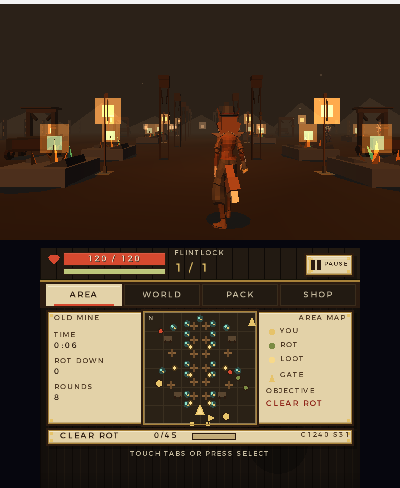
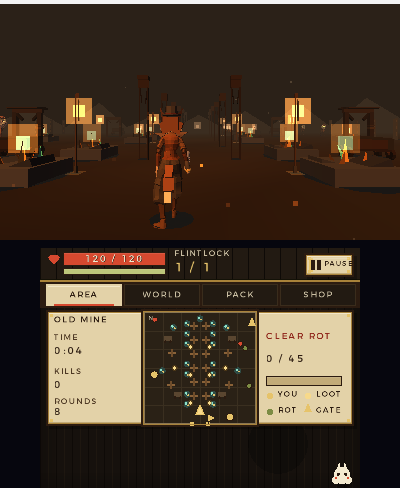
readme: v0.5 screenshots, aim assist, gyro and the cute pass

diff --git a/README.md b/README.md
@@ -42,13 +42,21 @@ Two camera modes: **third person** (default — you see the wolf, coat, tail and
 
 ### Screens
 
-| Title (CONTINUE) | Old Mine, third person | Old Mine, first person |
+| Title (simplified) | Old Mine, third person | Old Mine, first person |
 |---|---|---|
 | ![title](docs/screenshots/title.png) | ![third person](docs/screenshots/gameplay.png) | ![first person](docs/screenshots/firstperson.png) |
 
 | Aiming, first person | Aiming, third person | Firing while aimed |
 |---|---|---|
 | ![aim fp](docs/screenshots/aim_fp.png) | ![aim tp](docs/screenshots/aim_tp.png) | ![fire](docs/screenshots/fire.png) |
+
+| Aim-assist lock (reticle goes red) | Hitmarker | Zombies glow-eyed in the dark mine |
+|---|---|---|
+| ![reticle lock](docs/screenshots/reticle_locked.png) | ![hitmarker](docs/screenshots/hitmarker.png) | ![mine crowd](docs/screenshots/mine_crowd.png) |
+
+| Bone Orchard fireflies | | |
+|---|---|---|
+| ![fireflies](docs/screenshots/fireflies.png) | | |
 
 | Mine area map | World map | Inventory |
 |---|---|---|
@@ -84,6 +92,20 @@ reload bar, pause) plus **four tabs** — touch them, or press **Select** to cyc
 and reloads all models from the SD card in one tap — the in-game door for swapping models.
 When the Foreman is on the field a three-segment boss bar is pinned to the bottom edge.
 
+### v0.5: readable, cute, animation everywhere
+
+Real-hardware feedback drove a UI/polish pass: the title and pause screens are now **one control line**
+(`L AIM  R FIRE  A RELOAD  B SPRINT  START PAUSE`), the bottom pages were rewritten around **big labels**
+(important text ≥0.40 scale instead of tiny 0.22–0.32 micro-copy; an automated readability check counts
+25 remaining sub-0.34 meta labels vs 102 before), and the pages lost their redundant captions. A little
+procedural **ghost-pup mascot** lives in the corner of the HUD: it bobs and blinks, bounces with sparkles
+when you kill or pick something up, shivers/sweats when you get hit and goes pale at low HP. Tabs spring,
+buttons squash, toasts bounce, banners pop in, materials count up and the low-HP heart pulses.
+
+In the world: mine **embers**, Bone Orchard **fireflies**, stronger lantern flicker, revolver/musket **shell
+casings**, per-zombie idle sway, death dissolve + sparkle puff, heart sparkles on pickups, and glowing eyes
+on every zombie so the dark zones are readable.
+
 ## Playing it
 
 Grab `Gravepowder.3dsx` (and optionally `Gravepowder-models.zip`) from the
@@ -116,13 +138,21 @@ Playing under an emulator (Azahar)? Arrow keys = circle pad, WASD = d-pad, **U/H
 ### Aiming and turning
 
 Hold **L** to aim: the view zooms to 50°, the third-person camera pulls in, the imported gun rises and centres,
-the reticle tightens to a gold cross, spread drops to about a third and recoil is cut — plus a small 3°
-aim-assist cone when your shot would otherwise just miss. **R** fires.
+the reticle tightens to a gold cross, spread drops to about a third and recoil is cut. **R** fires.
 
-Turning is handled by the **gyroscope** (on by default): rotate the console to look around, with a deadzone and
-three sensitivity presets in SETTINGS. If your unit's yaw reads backwards, set **GYRO: INVERT**. On a New 3DS
-the **C-stick** also turns the camera. Touch-drag still aims for anyone who prefers it, and movement now
-accelerates/decelerates instead of snapping, so strafing and kiting feel less clunky.
+Aim-assist (SETTINGS → **AIM ASSIST: OFF / NORMAL / STRONG**, default NORMAL) adds a forgiving cone
+(3.4°/6.3°), gentle aim magnetism while you hold L, and slightly wider zombie hitboxes — so shots connect
+when you're close rather than demanding pixel-perfect aim on a 240p screen. When a zombie is in the cone
+the reticle turns **red/white** with a pulsing ring; hits flash a **white hitmarker X** (gold on a kill)
+with dust/sparkle feedback. Zombies now have glowing eyes and brighter silhouettes so they read against
+the dark mine floor.
+
+Turning is handled by the **gyroscope** (on by default): rotate the console to look around. v0.5 rebuilt the
+gyro pipeline — rest **bias calibration** (on boot/title/pause), a low-pass filter, a 1.7°/s deadzone and
+gentler sensitivity presets — so it turns smoothly instead of twitching. **GYRO** (ON/OFF/INVERT) and
+**GYRO SPEED** (LOW/MED/HIGH) live in SETTINGS; if your unit reads backwards, set INVERT. On a New 3DS the
+**C-stick** also turns the camera. Touch-drag still aims for anyone who prefers it, and movement accelerates/
+decelerates instead of snapping.
 
 ### Sound
 
@@ -177,12 +207,13 @@ tints. Full format + workflow in [`docs/assets.md`](docs/assets.md) and
 
 ## Status
 
-v0.4 "Steady Hands" fixes real-hardware feel: the strafe/turn axes were mirrored (left moved right) and there
-was no way to turn around — both are fixed. **R fires, L aims, A reloads, B sprints**, gyro turns the view
-(INVERT option), the New 3DS C-stick works as a camera fallback, aiming zooms/steadies with an assist cone,
-and movement accelerates smoothly. The campaign itself is unchanged: three zones, the Foreman boss, the
-Trader's shop, save v3 (old saves still load), WARDROBE model swap, four-tab touch UI, ending. 57 fps in
-every measured scene, animated models in both camera modes, original music/SFX.
+v0.5 "Cute & Deadly" is the playability/polish pass on top of v0.4's control fixes: **gyro rebuilt** (bias
+calibration, filtering, gentler presets), **aim assist** OFF/NORMAL/STRONG with magnetism + red reticle lock
+and hitmarkers, zombie hitboxes widened 20 % and zombies given glowing eyes so you can actually see and hit
+them, the UI reworked for **readability and cuteness** (big labels, one-line controls, mascot, springy
+animation), and the world animated (embers, fireflies, casings, death sparkles). The campaign is unchanged:
+three zones, the Foreman boss, the Trader's shop, save v3 (old saves still load), WARDROBE model swap,
+four-tab touch UI, ending. 57 fps in every measured scene, original music/SFX.
 
 Still to do:
 
@@ -206,7 +237,7 @@ committed, so a normal build needs no Python; only re-converting models does (se
 and the headless campaign sim:
 
 ```sh
-make -C tests CC=cc test     # 4024 checks
+make -C tests CC=cc test     # 4074 checks
 make -C tools CC=cc run     # bot clears all 3 zones incl. the Foreman
 make -C tools/preview CC=cc run  # offline UI page tour + layout/legibility check
 ```
